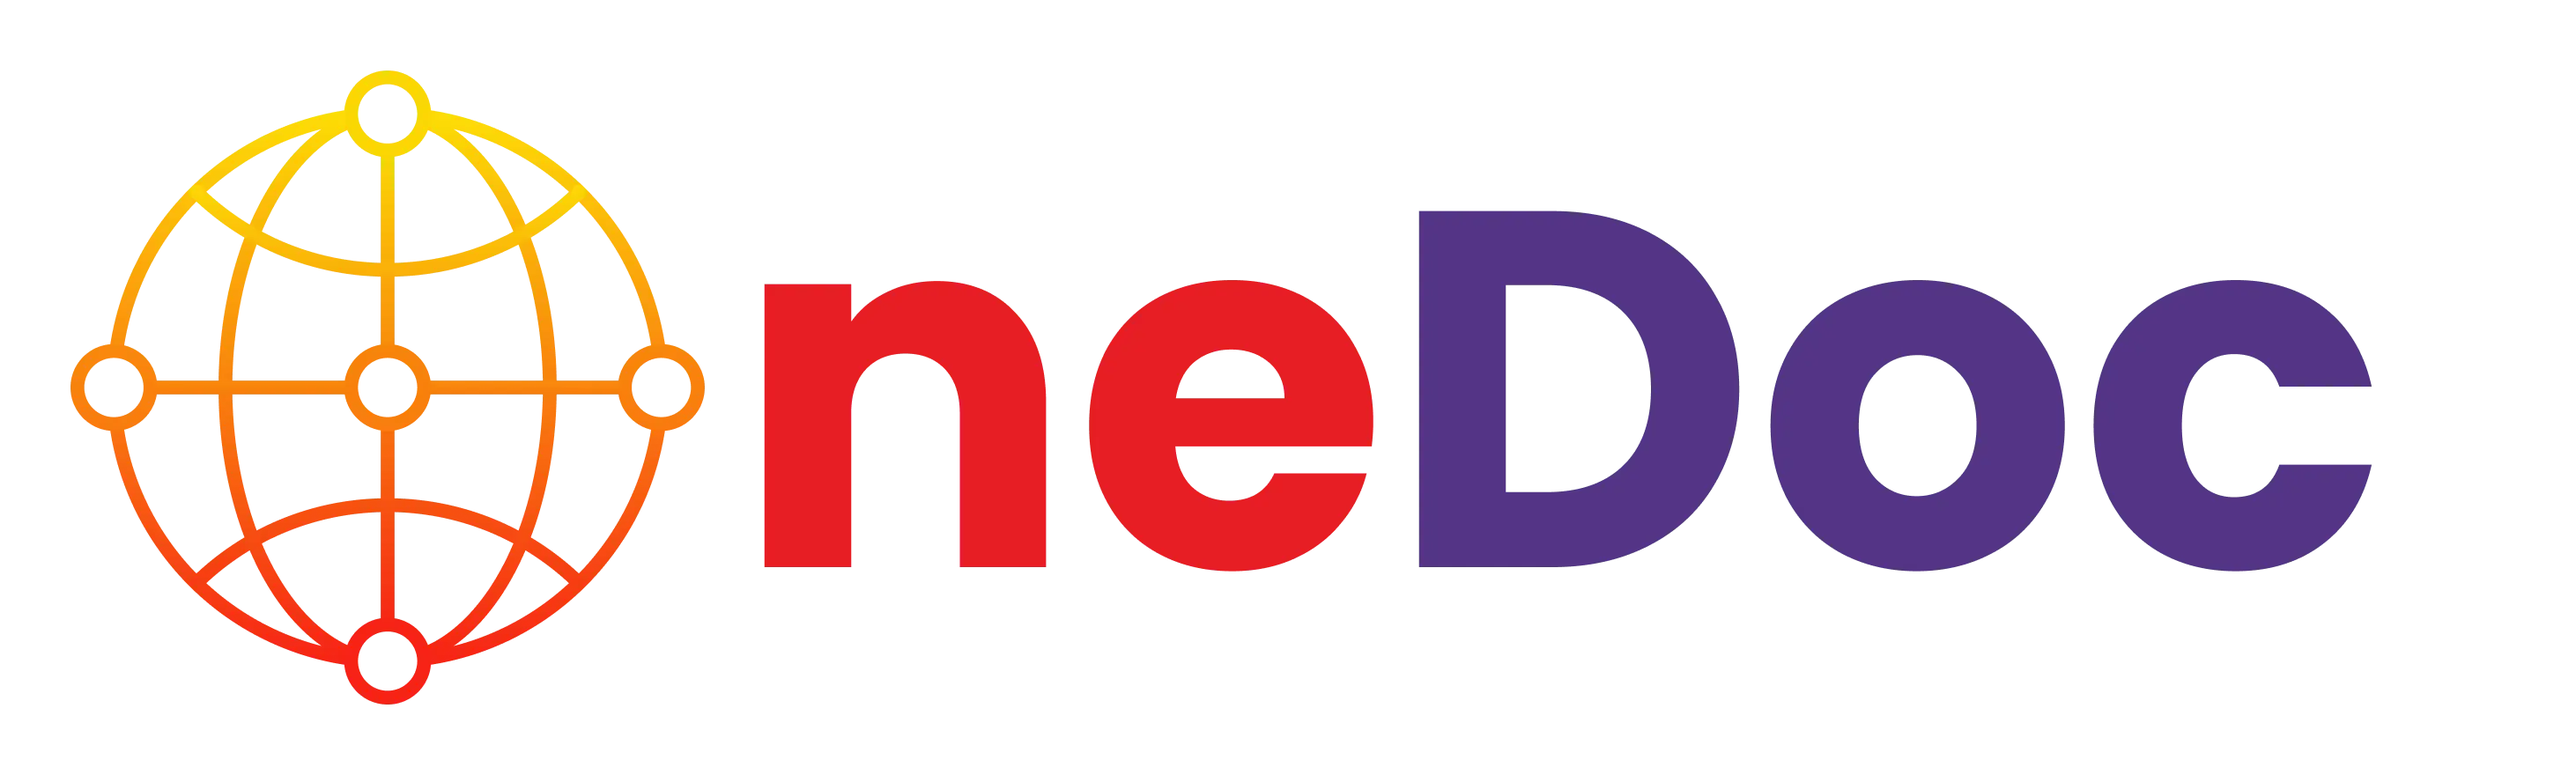
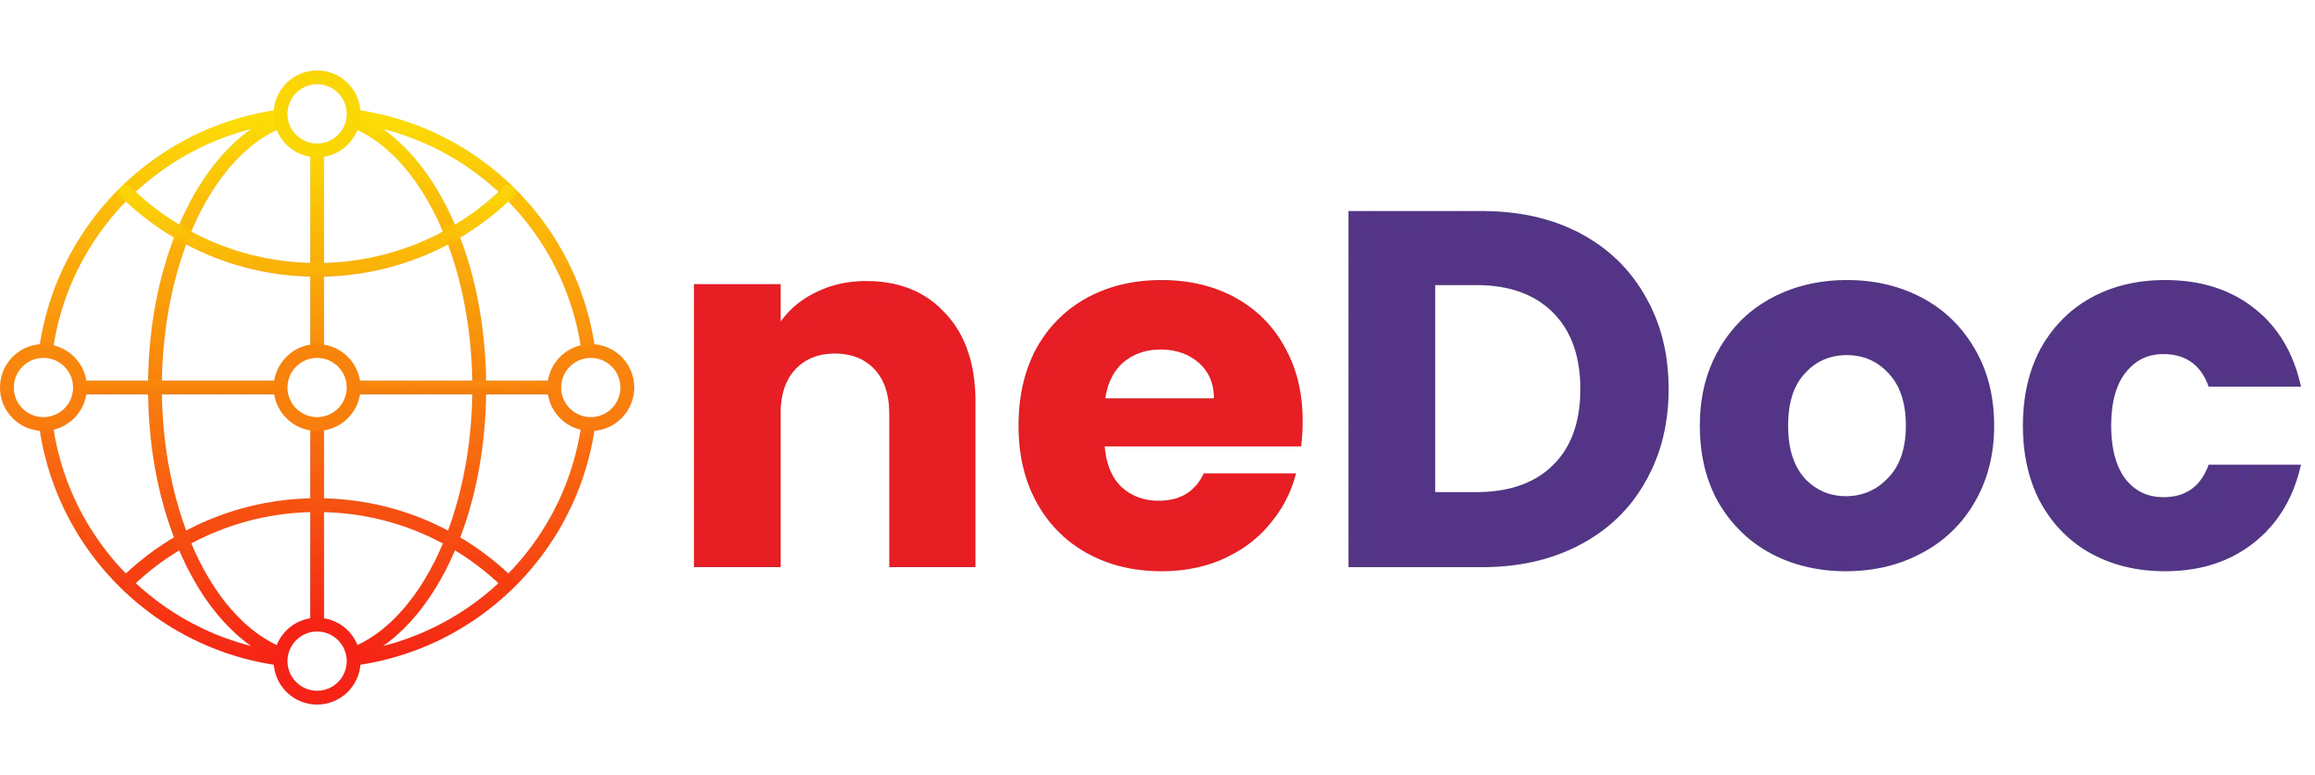
test

Changed region(s): [[0.2496, 0.2455, 0.9985, 0.7364], [0.0, 0.092, 0.2496, 0.9205]]

diff --git a/hooks/useDynamicLogo.js b/hooks/useDynamicLogo.js
@@ -23,8 +23,8 @@ export const useDynamicLogo = () => {
         footerSrc: '/images/OneCompliance.webp',
         isOneCompliance: true,
         sizeOverride: {
-          desktop: { width: 'w-56', height: 'h-12' },
-          mobileSheet: { width: 'w-60', height: 'h-16' },
+          desktop: { width: 'w-56', height: 'h-8' },
+          mobileSheet: { width: 'w-36', height: 'h-8' },
           footer: { width: '220px', height: 'auto' }
         }
       };
@@ -37,7 +37,12 @@ export const useDynamicLogo = () => {
         alt: 'OneDoc',
         mobileSrc: '/images/OneDoc.webp',
         footerSrc: '/images/OneDoc.webp',
-        isOneDoc: true
+        isOneDoc: true,
+        sizeOverride: {
+          desktop: { width: 'w-32', height: 'h-8' },
+          mobileSheet: { width: 'w-32', height: 'h-8' },
+          footer: { width: '180px', height: 'auto' }
+        }
       };
     }
 

diff --git a/components/Header.js b/components/Header.js
@@ -37,7 +37,7 @@ const Header = () => {
       <div className="px-3 sm:px-4 py-2 sm:py-3 flex justify-between items-center">
         {/* Mobile Logo on the left */}
         <div className="block md:hidden">
-          <DynamicLogo variant="mobile" />
+          <DynamicLogo variant="desktop" />
         </div>
 
         {/* Desktop Navigation */}
